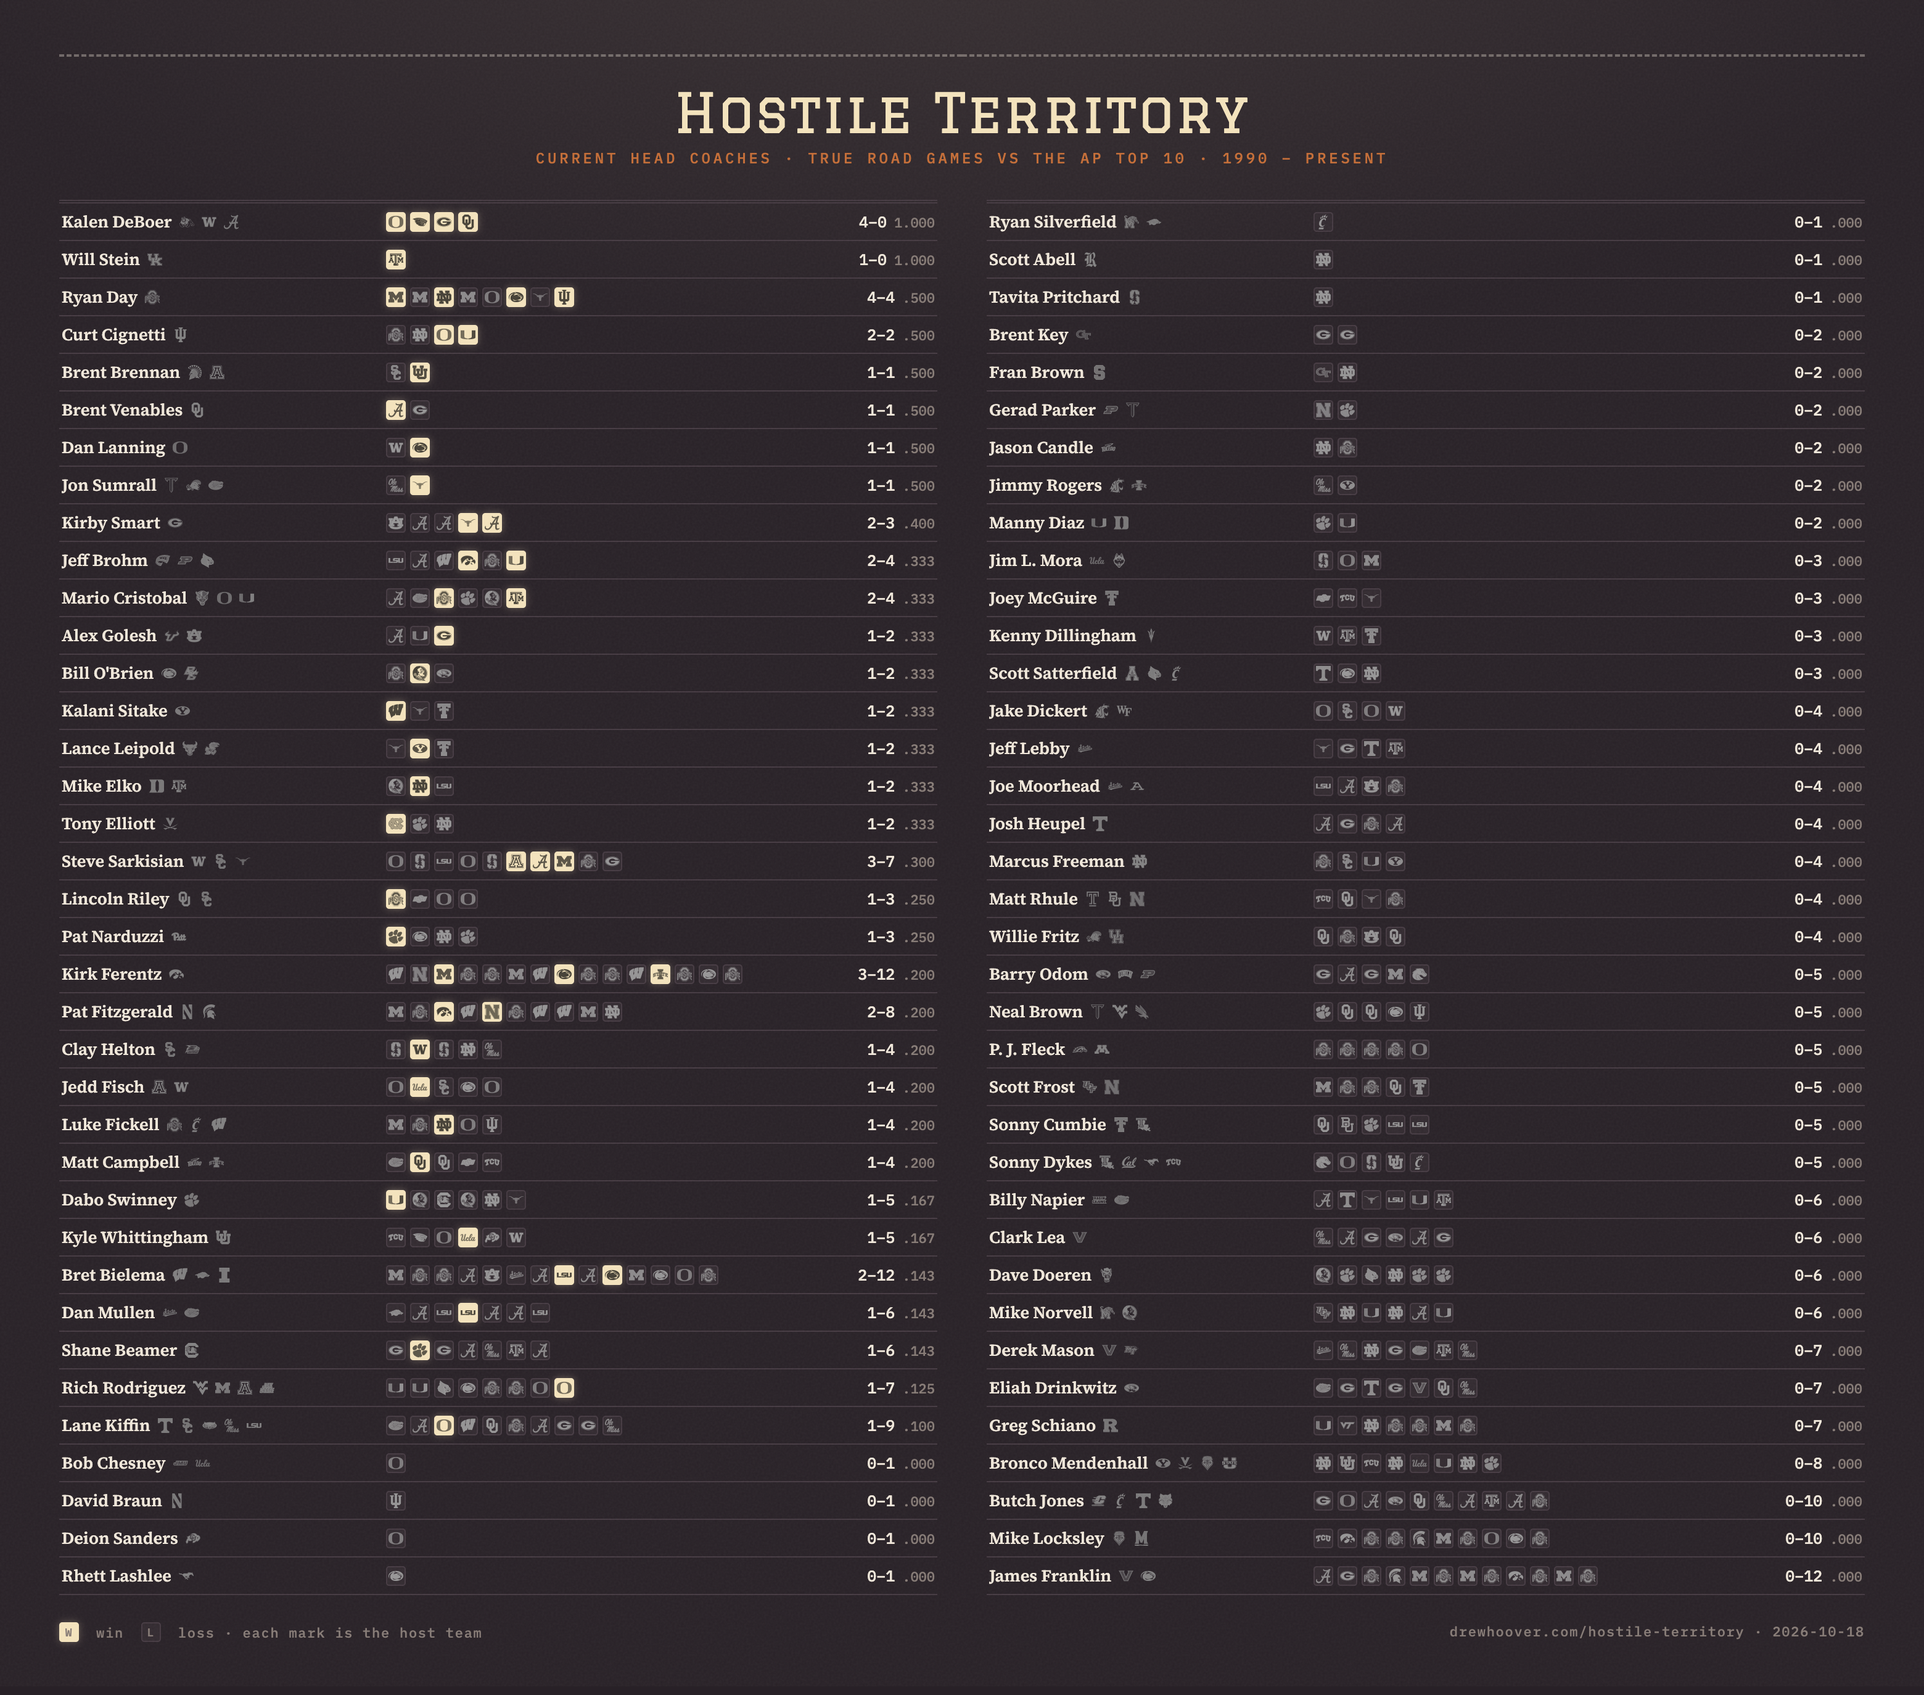
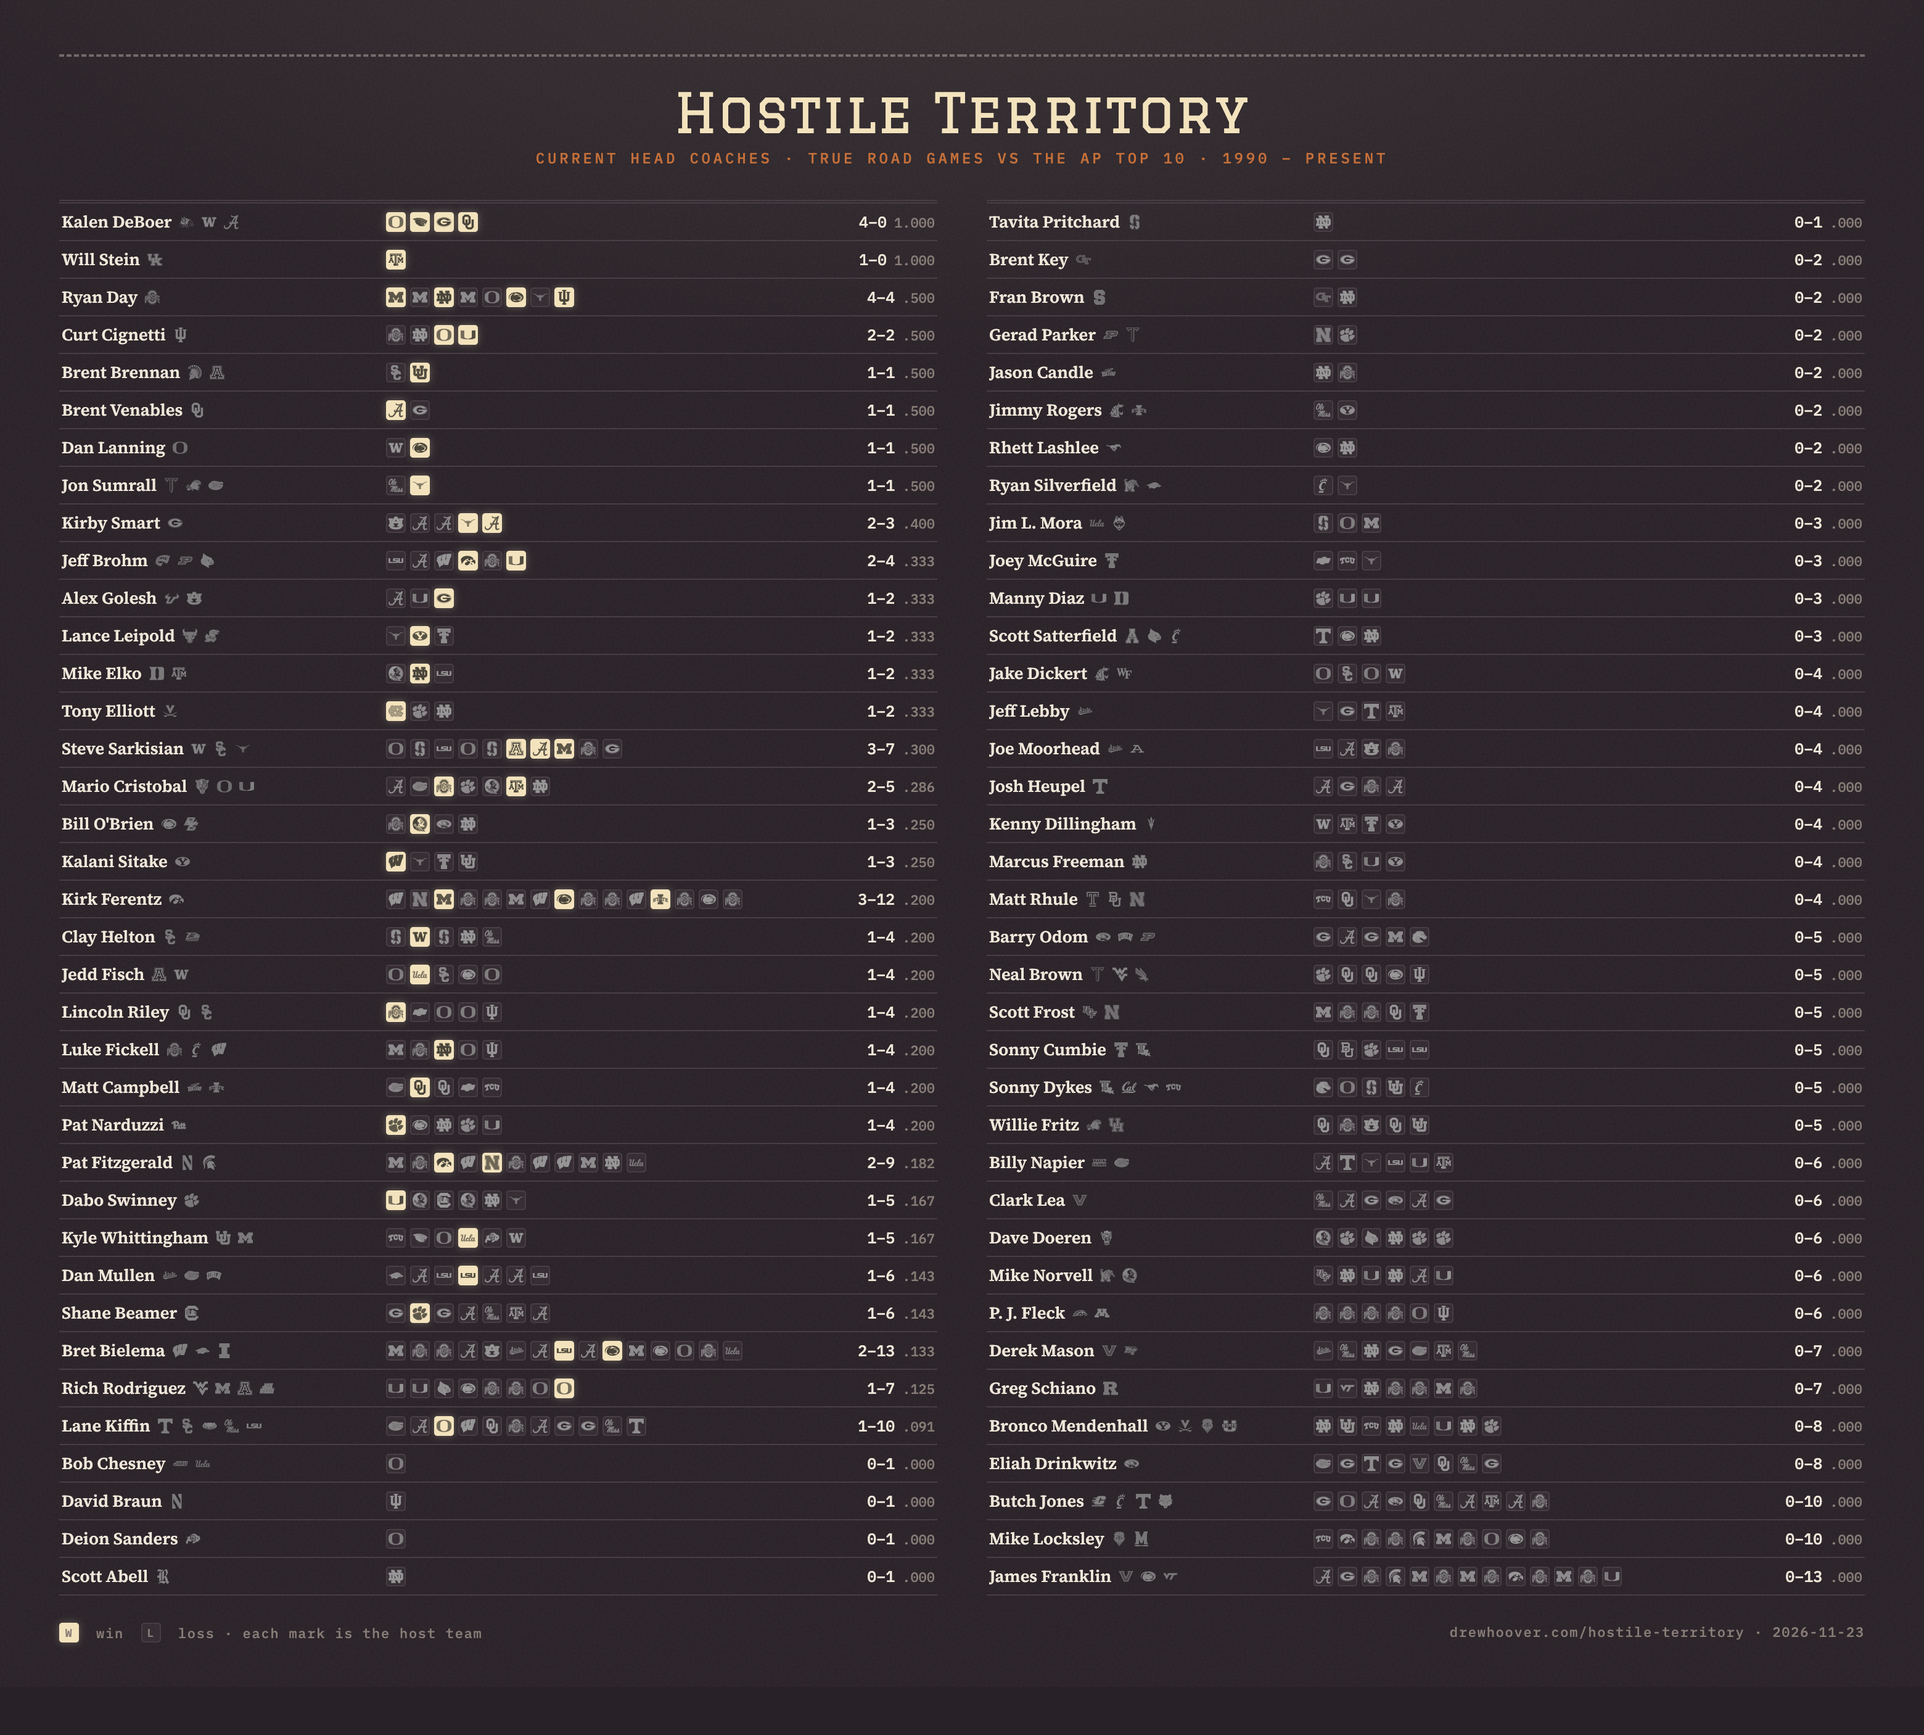
Kiffin's line strikes every record he has held: 1-8 1-9 1-10
The intro line was ESPN's 1-8 struck beside the live record, so the 1-9 he
held after Ole Miss went missing once Tennessee made it 1-10. The line is
now ESPN's factoid, then his record after each top-10 road game since, each
struck on its own and the last one live (kiffinSteps in src/kiffin.js), and
the og card draws the same records. Drew's call, 2026-11-22.

The card said 1-9 with nine games, and the poster (the og:image) was from
2026-10-18 with Kiffin at 1-9. Both are redrawn from today's data.

diff --git a/src/App.jsx b/src/App.jsx
@@ -1,16 +1,16 @@
-import { useEffect, useMemo, useState } from 'react'
+import { Fragment, useEffect, useMemo, useState } from 'react'
 import DATA from './data/site-data.json'
 import LOGO_IDS from './data/team-ids.json'
 import { readParam, writeParam, writeCoachPath, readCoachPath } from './urlState.js'
 import { slugOf } from './coach.js'
-import { ESPN, kiffinRecord } from './kiffin.js'
+import { kiffinRecord, kiffinSteps, rec } from './kiffin.js'
 import { useShare } from './useShare.js'
 import { ShareIcon, CoffeeIcon } from './Icons.jsx'
 import { Notes, KOFI_URL } from './Notes.jsx'
 import { setSubject } from './readNext.js'
 import { FindCoach } from './FindCoach.jsx'
 
-const KIFFIN = kiffinRecord(DATA)
+const KIFFIN_STEPS = kiffinSteps(DATA)
 const KIFFIN_25 = kiffinRecord(DATA, 25)
 
 // site-data game row: [date, school, opponent, opp_rank, result, away_pts,
@@ -254,12 +254,14 @@ export default function App() {
         </span>
       </div>
       <h1>Hostile Territory</h1>
-      {/* Pinned to the ESPN factoid that started the site, with the live number from the board beside it.
-          The factoid is a top-10 number, so the top-25 cut shows Kiffin's live top-25 record alone. */}
+      {/* Pinned to the ESPN factoid that started the site, then his record after each top-10 road game since,
+          each struck through on its own, the last one live. The factoid is a top-10 number, so the top-25 cut
+          shows Kiffin's live top-25 record alone. */}
       <p className="sub">
         {cut === 10
-          ? <>Lane Kiffin is {(KIFFIN.w !== ESPN.w || KIFFIN.l !== ESPN.l || KIFFIN.t) ? <><s>{ESPN.w}–{ESPN.l}</s>{' '}</> : null}
-            {KIFFIN.w}–{KIFFIN.l}{KIFFIN.t ? `–${KIFFIN.t}` : ''} on the road against top 10 teams.</>
+          ? <>Lane Kiffin is {KIFFIN_STEPS.map((k, i) => (i < KIFFIN_STEPS.length - 1
+              ? <Fragment key={i}><s>{rec(k, '–')}</s>{' '}</Fragment>
+              : <Fragment key={i}>{rec(k, '–')}</Fragment>))} on the road against top 10 teams.</>
           : <>Lane Kiffin is {KIFFIN_25.w}–{KIFFIN_25.l}{KIFFIN_25.t ? `–${KIFFIN_25.t}` : ''} on the road against top 25 teams.</>}
         {' '}Here's how his record matches up against everyone else.
       </p>

diff --git a/src/kiffin.js b/src/kiffin.js
@@ -14,7 +14,25 @@ export function kiffinRecord(data, cut = 10) {
   return { w, l, t, games: games.length, since: Math.max(0, games.length - ESPN.games) }
 }
 
-const rec = ({ w, l, t }, dash = '-') => `${w}${dash}${l}${t ? `${dash}${t}` : ''}`
+export const rec = ({ w, l, t }, dash = '-') => `${w}${dash}${l}${t ? `${dash}${t}` : ''}`
+
+/**
+ * The intro line's records, oldest first: ESPN's factoid, then his record
+ * after each top-10 road game since, the last one live. The page strikes
+ * every one but the last ("1-8 1-9 1-10", Drew's call 2026-11-22), and so
+ * does the og card.
+ */
+export function kiffinSteps(data) {
+  const c = data.coaches.find((c) => c.n === 'Lane Kiffin')
+  const games = c ? c.g.filter((g) => g[3] <= 10) : []
+  const steps = [{ ...ESPN }]
+  let w = ESPN.w, l = ESPN.l, t = 0
+  for (const g of games.slice(ESPN.games)) {
+    g[4] === 'W' ? w++ : g[4] === 'L' ? l++ : t++
+    steps.push({ w, l, t })
+  }
+  return steps
+}
 
 // The search snippet: the searched phrase stays, the live number leads.
 export function kiffinDescription(data) {

diff --git a/site.config.js b/site.config.js
@@ -30,7 +30,7 @@ export default {
   // native ratio; X/Twitter keeps the 2:1 og.png via twitter:image instead.
   ogImage: 'og-poster.png',
   ogImageWidth: 1560,
-  ogImageHeight: 1375,
+  ogImageHeight: 1407,
 
   // Used by the favicon and the OG image. Pick something from your data.
   accent: '#f3e2bc',

diff --git a/CLAUDE.md b/CLAUDE.md
@@ -12,8 +12,8 @@
 - The `dataviz-pages-site` skill covers everything else: build-time data, researched datasets, mobile, dates, SEO, registering the project card on the index site.
 - Data is committed. The games since 2001 are cfbfastR's schedules through 2025 and, from the 2026 season on (`STREAK_KING_FROM` in `build-candidates.mjs`), College Football Streak King's published payload (`https://drewhoover.com/cfb-streak-king/share/payload.json`, cached as `data/raw/streak-king/payload.json`): the same schedule plus CFBD's finals for games cfbfastR hasn't marked yet, and each game's overtimes, so those games need no ESPN fetch. The two sources agree on every 2025 qualifying game (158 of 158, scores, host ranks and overtimes). The coaches and the polls are still this repo's own. The committed data is the data (2026-11-16). In season the deploy workflow's scheduled runs (every day at 19:00 and 23:00 UTC, August through January, `schedule` in `.github/workflows/deploy.yml`) and a `workflow_dispatch` run `node scripts/refresh.mjs` with `data/raw/` restored from the Actions cache, build, commit `data/` and `src/data/` to main as "the refresh" and deploy that commit, the share worker included; a push builds what main holds and fetches nothing. A refresh that finds no game the commit doesn't have puts the committed files back (only the date stamps had changed), and a scheduled run then commits and deploys nothing. A refresh that fails commits and deploys nothing, the site keeps what it had, and the run opens an issue titled "The data refresh failed". So pull with a rebase before you push, and don't commit data older than main's: `scripts/check-not-older-than-live.mjs` fails a deploy whose data is dated before the live site's `data.json` or has fewer games (put `[older data]` in the commit message to ship it on purpose). Until this date a refresh deployed without committing and built the committed data when it failed: on 2026-11-16 Streak King's payload answered 526, the run went green, and the board went back nine days. `scripts/refresh.mjs` is the runbook below as one command. The raw sources live under `data/raw/` (gitignored) and `scripts/fetch-data.mjs` is cached per file, so by hand the refresh is: delete `data/raw/streak-king/payload.json` and `data/raw/ap-polls/season-2026.html` (the running season's two files; new poll pages download as missing), `node scripts/fetch-data.mjs --only=games` and `--only=polls`, then `node scripts/build-candidates.mjs`, `node scripts/build-records.mjs`, `node scripts/fetch-ot.mjs` (ESPN overtime for cfbfastR game ids; a Streak King game carries its own) and build-records again so `ot.json` reaches `data/records.json` and `src/data/site-data.json`. Check with `node scripts/candidate-stats.mjs` (no seasons flagged) and `node scripts/coverage-report.mjs`; its Kiffin check fails on purpose since he went 1-9. 2026 unmatched games are G5/FCS road teams with no tenure row. A game played after the bulk fetch can be hand-added in `data/game-corrections.json` (`action: "add"`, scored from ESPN) and yields automatically once Streak King's payload carries it.
 - The board runs from 1936 (`specs/back-to-1936.spec.md`). Howell's pages are the game source before 2001 and the AP polls go back to 1936, so `data/raw/` has to reach 1936 too: `build-candidates.mjs` exits with a message when it doesn't (`fetch-data.mjs --only=jhowell` and `--only=polls` fill it). Pre-1990 coaches come from `data/coach-stints.json`, which `CSK_DIR=../cfb-streak-king node scripts/build-coach-stints.mjs` generates from cfb-streak-king's committed payload; re-run it only when that repo's coach data changes, and never hand-edit it (a spelling goes in `data/coach-aliases.json`, scope in `rules.json` `pre_1990_power`). `build-records.mjs` attributes pre-1990 games from the stints only and writes the payload in two files: `site-data.json` (1990+, the prerender) and `site-data-1936.json` (loaded after mount). Every pre-1990 game carries two receipts (Howell's row, the host's poll row); after a rebuild that touches them, `node scripts/save-pages.mjs data/games-candidates.json data/coach-stints.json` then `node scripts/check-receipts.mjs --offline data/games-candidates.json data/coach-stints.json` must pass. The saved pages under `data/research/pages/` are committed. Open threads are in `data/research/leads.json`.
-- The og:image is the current-coaches poster (`ogImage` in `site.config.js`), so regenerate it with the data: `pnpm exec vite --port 5173` for the logos, `node scripts/gen-poster.mjs > /tmp/poster.html`, render with Chrome (`--headless=new --hide-scrollbars --force-device-scale-factor=2 --window-size=1560,1400 --virtual-time-budget=8000 --screenshot=...`), trim the trailing background rows with sharp keeping ~72px of bottom padding → `public/current-coaches-road-vs-top10.png` (2x), downscale to width 1560 → `public/og-poster.png`, and set `ogImageHeight` in `site.config.js` to the result (1375 as of 2026-10-18). `pnpm run gen:og` redraws the Kiffin card, which only changes when he plays a road game vs the top 10.
-- The intro line (`src/App.jsx`) and the description (`site.config.js`) stay pinned to ESPN's 1-8 factoid, with Kiffin's live number beside it (the factoid struck through on the page, in parentheses in the meta). Both compute the live number from `src/data/site-data.json` through `src/kiffin.js`, so a data refresh moves it without an edit.
+- The og:image is the current-coaches poster (`ogImage` in `site.config.js`), so regenerate it with the data: `pnpm exec vite --port 5173` for the logos, `node scripts/gen-poster.mjs > /tmp/poster.html`, render with Chrome (`--headless=new --hide-scrollbars --force-device-scale-factor=2 --window-size=1560,1400 --virtual-time-budget=8000 --screenshot=...`), trim the trailing background rows with sharp keeping ~72px of bottom padding → `public/current-coaches-road-vs-top10.png` (2x), downscale to width 1560 → `public/og-poster.png`, and set `ogImageHeight` in `site.config.js` to the result (1407 as of 2026-11-23). The dev server's logos can be file paths instead: pipe the HTML through `sed "s#http://localhost:5173/hostile-territory/#file://$PWD/public/#g"` and add `--allow-file-access-from-files`. Render taller than the page (`--window-size=1560,1700`), since a window shorter than the board cuts its last row off. `pnpm run gen:og` redraws the Kiffin card, which only changes when he plays a road game vs the top 10.
+- The intro line (`src/App.jsx`) and the description (`site.config.js`) stay pinned to ESPN's 1-8 factoid, with Kiffin's live number beside it. On the page and the og card (`og.png`, `card.png`) the line is every record he has held since: ESPN's 1-8, then his record after each top-10 road game since, each struck through on its own and the last one live ("~~1-8~~ ~~1-9~~ 1-10", Drew's call 2026-11-22). `kiffinSteps` in `src/kiffin.js` lists them for both. The meta description keeps the factoid in parentheses. Everything computes from `src/data/site-data.json`, so a data refresh moves the page and the description without an edit; the og card and the poster need `pnpm run gen:og` and the poster's render, since CI doesn't redraw images.
 - The dateline sits above the title as on Streak King: provenance on the left, the icon bar on the right (search, Ko-fi, share). Its "updated" stamp is `generated` in `src/data/site-data.json`, the data build date (hidden on phones, with the years). The search icon (`src/FindCoach.jsx`) finds a coach by name or school and opens his row (`coach_open` with `from: 'find'`); it replaced the board's filter box, so `?q=` no longer filters. The share icon uses `src/useShare.js` (native share sheet, else copy "text url" and flash "copied") and tracks `share`. Ko-fi is `KOFI_URL` in `src/Notes.jsx`, in three places: the coffee icon in the dateline (`from: 'icons'`), the Method paragraph (`from: 'notes'`) and the footer (`from: 'footer'`).
 - What to read next is Putting Up Numbers' claims about the open coach and his school (puttingupnumbers' `specs/read-next-across-sites.spec.md`). The back-bar embed carries `data-section="sports" data-read-next="cfb"`: it fetches and shuffles PUN's links and draws them in the top bar, and the block under the board (`src/ReadNext.jsx`) shows the first five of its order as sentences. `src/readNext.js` sets the subject on `<html>` (`data-dh-subject="coach:<PUN slug>"` and `data-dh-team`); `src/punSlugs.json` holds the coaches whose PUN address isn't their slug here. The prerender bakes PUN's college football list into the page (`scripts/lib/readNext.mjs`; a failed fetch bakes nothing; `READ_NEXT_ORIGIN` points it at a local server). Events: `readnext shown` and `readnext` with `where: 'block'` (the embed counts the bar's). The other sports sites' list is in `scripts/lib/llms.mjs`, for `dist/llms.txt` alone.
 - Venues (section 2 of `specs/three-sites-search.spec.md` in puttingupnumbers, as Drew changed it 2026-11-02): the board's first toggle picks road (the default), home, neutral site or all, `?venue=home|neutral|all`. The road games are the board's own, each with a receipt. Home and neutral-site games are College Football Streak King's payload, tallied by `scripts/build-venues.mjs` into `src/data/venue-games.json` (every such game against a ranked team, per coach, in site-data's row shape with the coach's points first and the venue last; loaded the first time a reader picks a venue) and `src/data/venues.json` (the tallies the card draws). Both are committed and `refresh.mjs` rebuilds them. The two sources disagree on about 120 coaches' road counts by a game or two (Howell's '@' marker against Streak King's neutral flag, mostly), and the board uses its own. There are no coach pages (they shipped for one night and Drew turned them down): `/coach/<slug>/` is the board with that coach open, the way Streak King's definition pages are its board on a definition. The board reads the coach from the path (`readCoachPath` in `src/urlState.js`), opens him once the 1936 file and the venue's games are in, keeps his row whatever the filters say, scrolls to it, and writes the path as rows open and close (`writeCoachPath`). A `?coach=<name>` address still opens him, and the worker 301s it to the path. The sitemap lists every coach's address.
